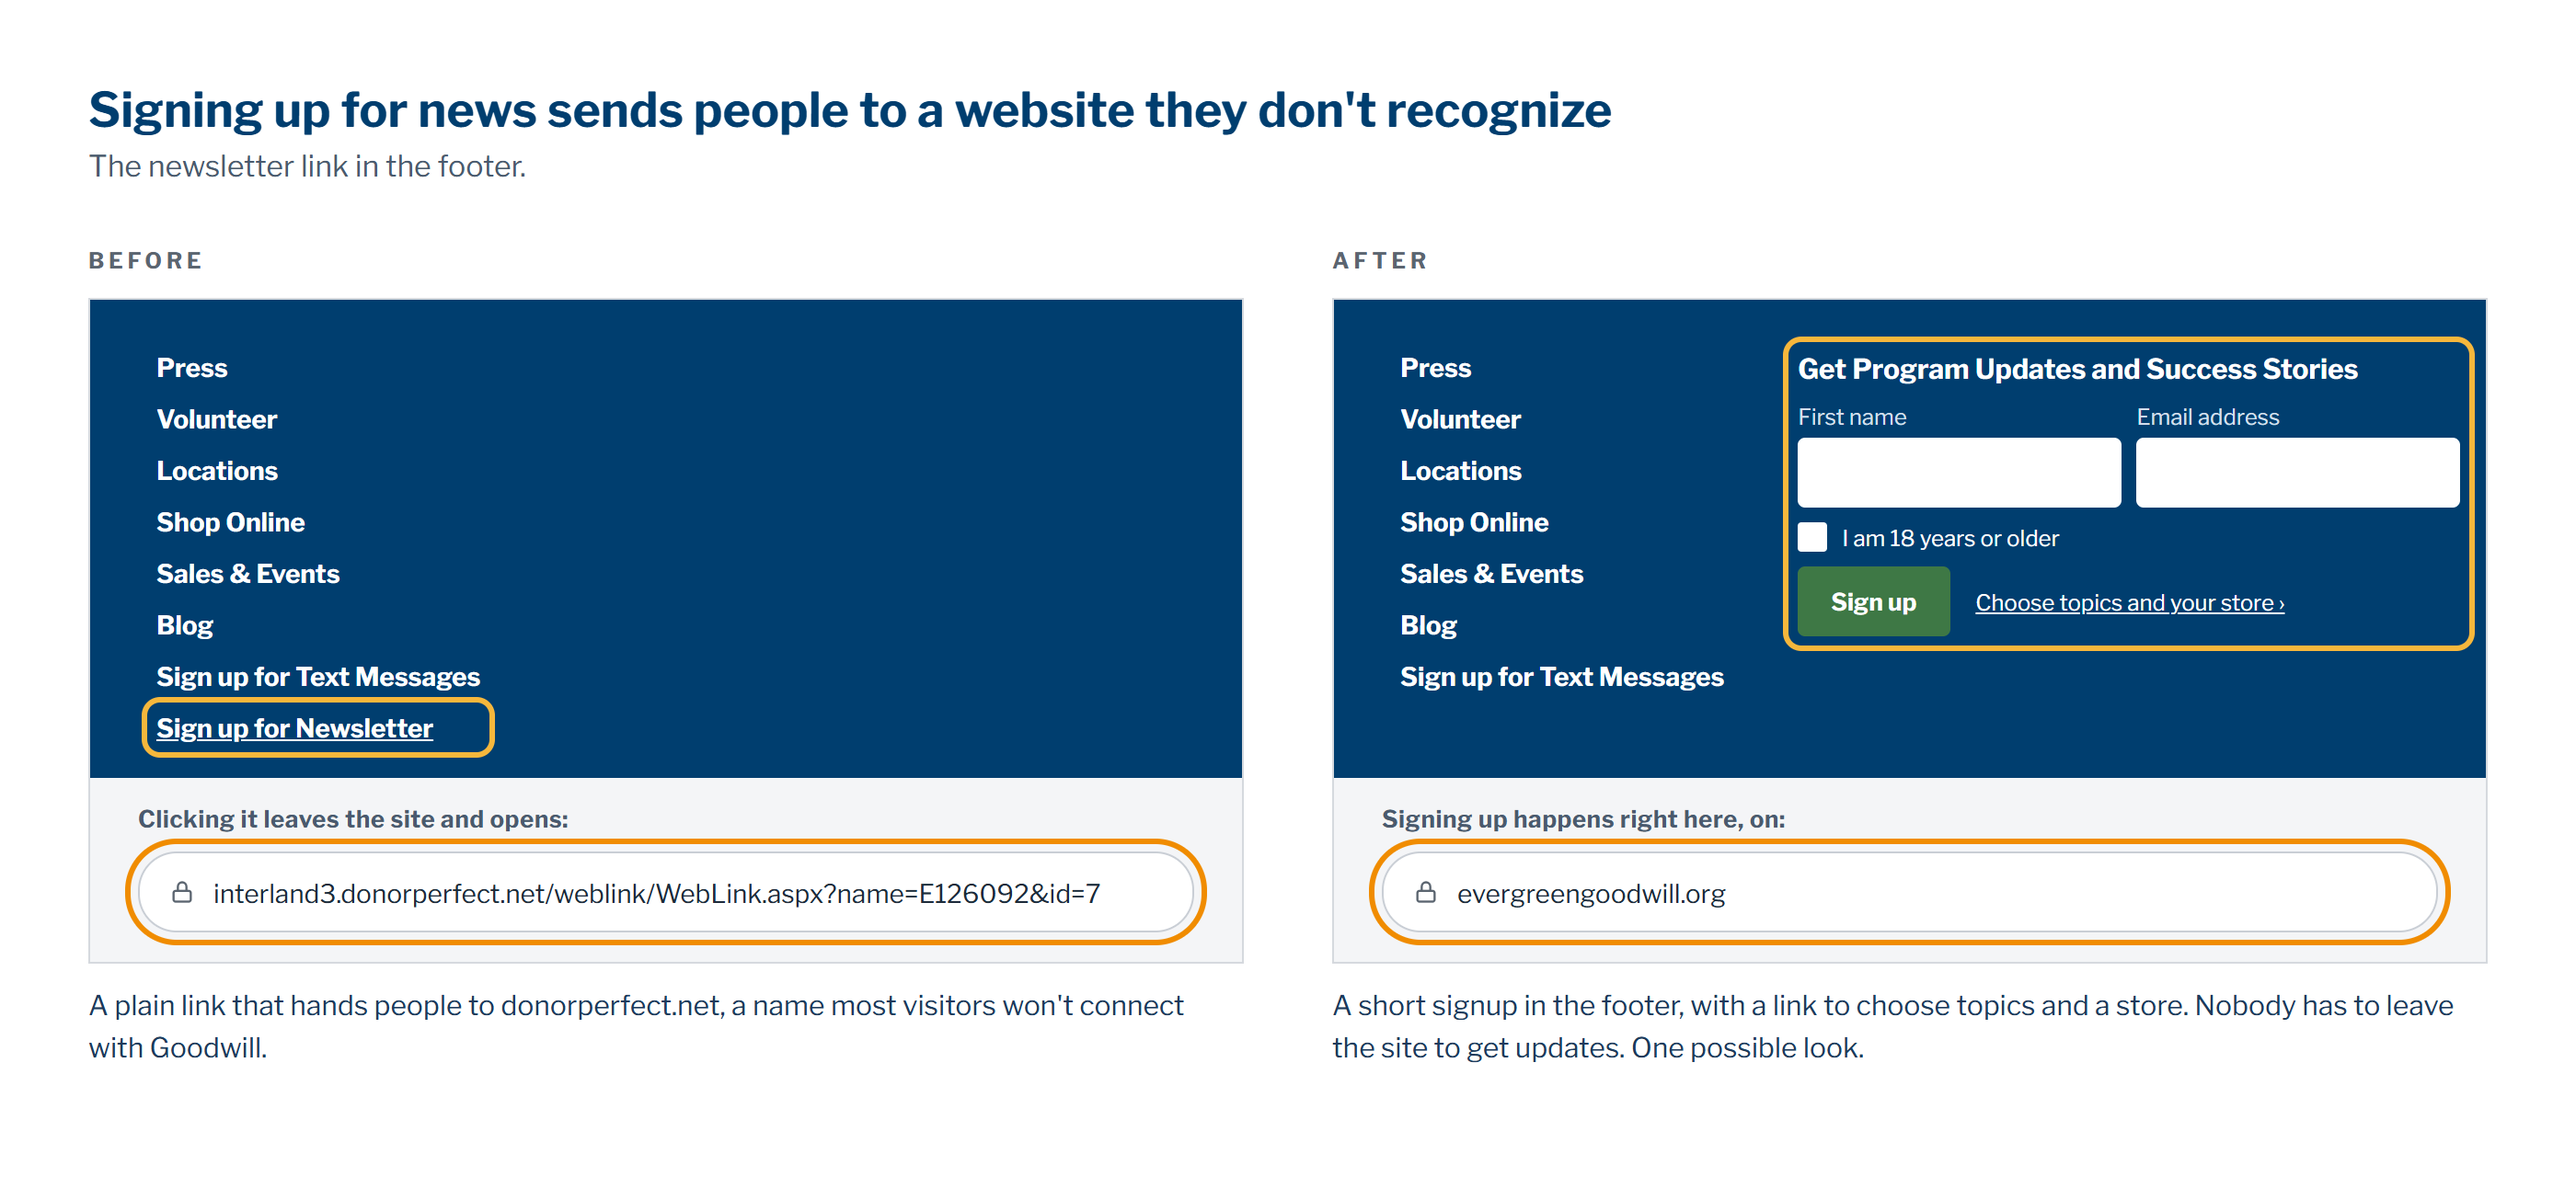
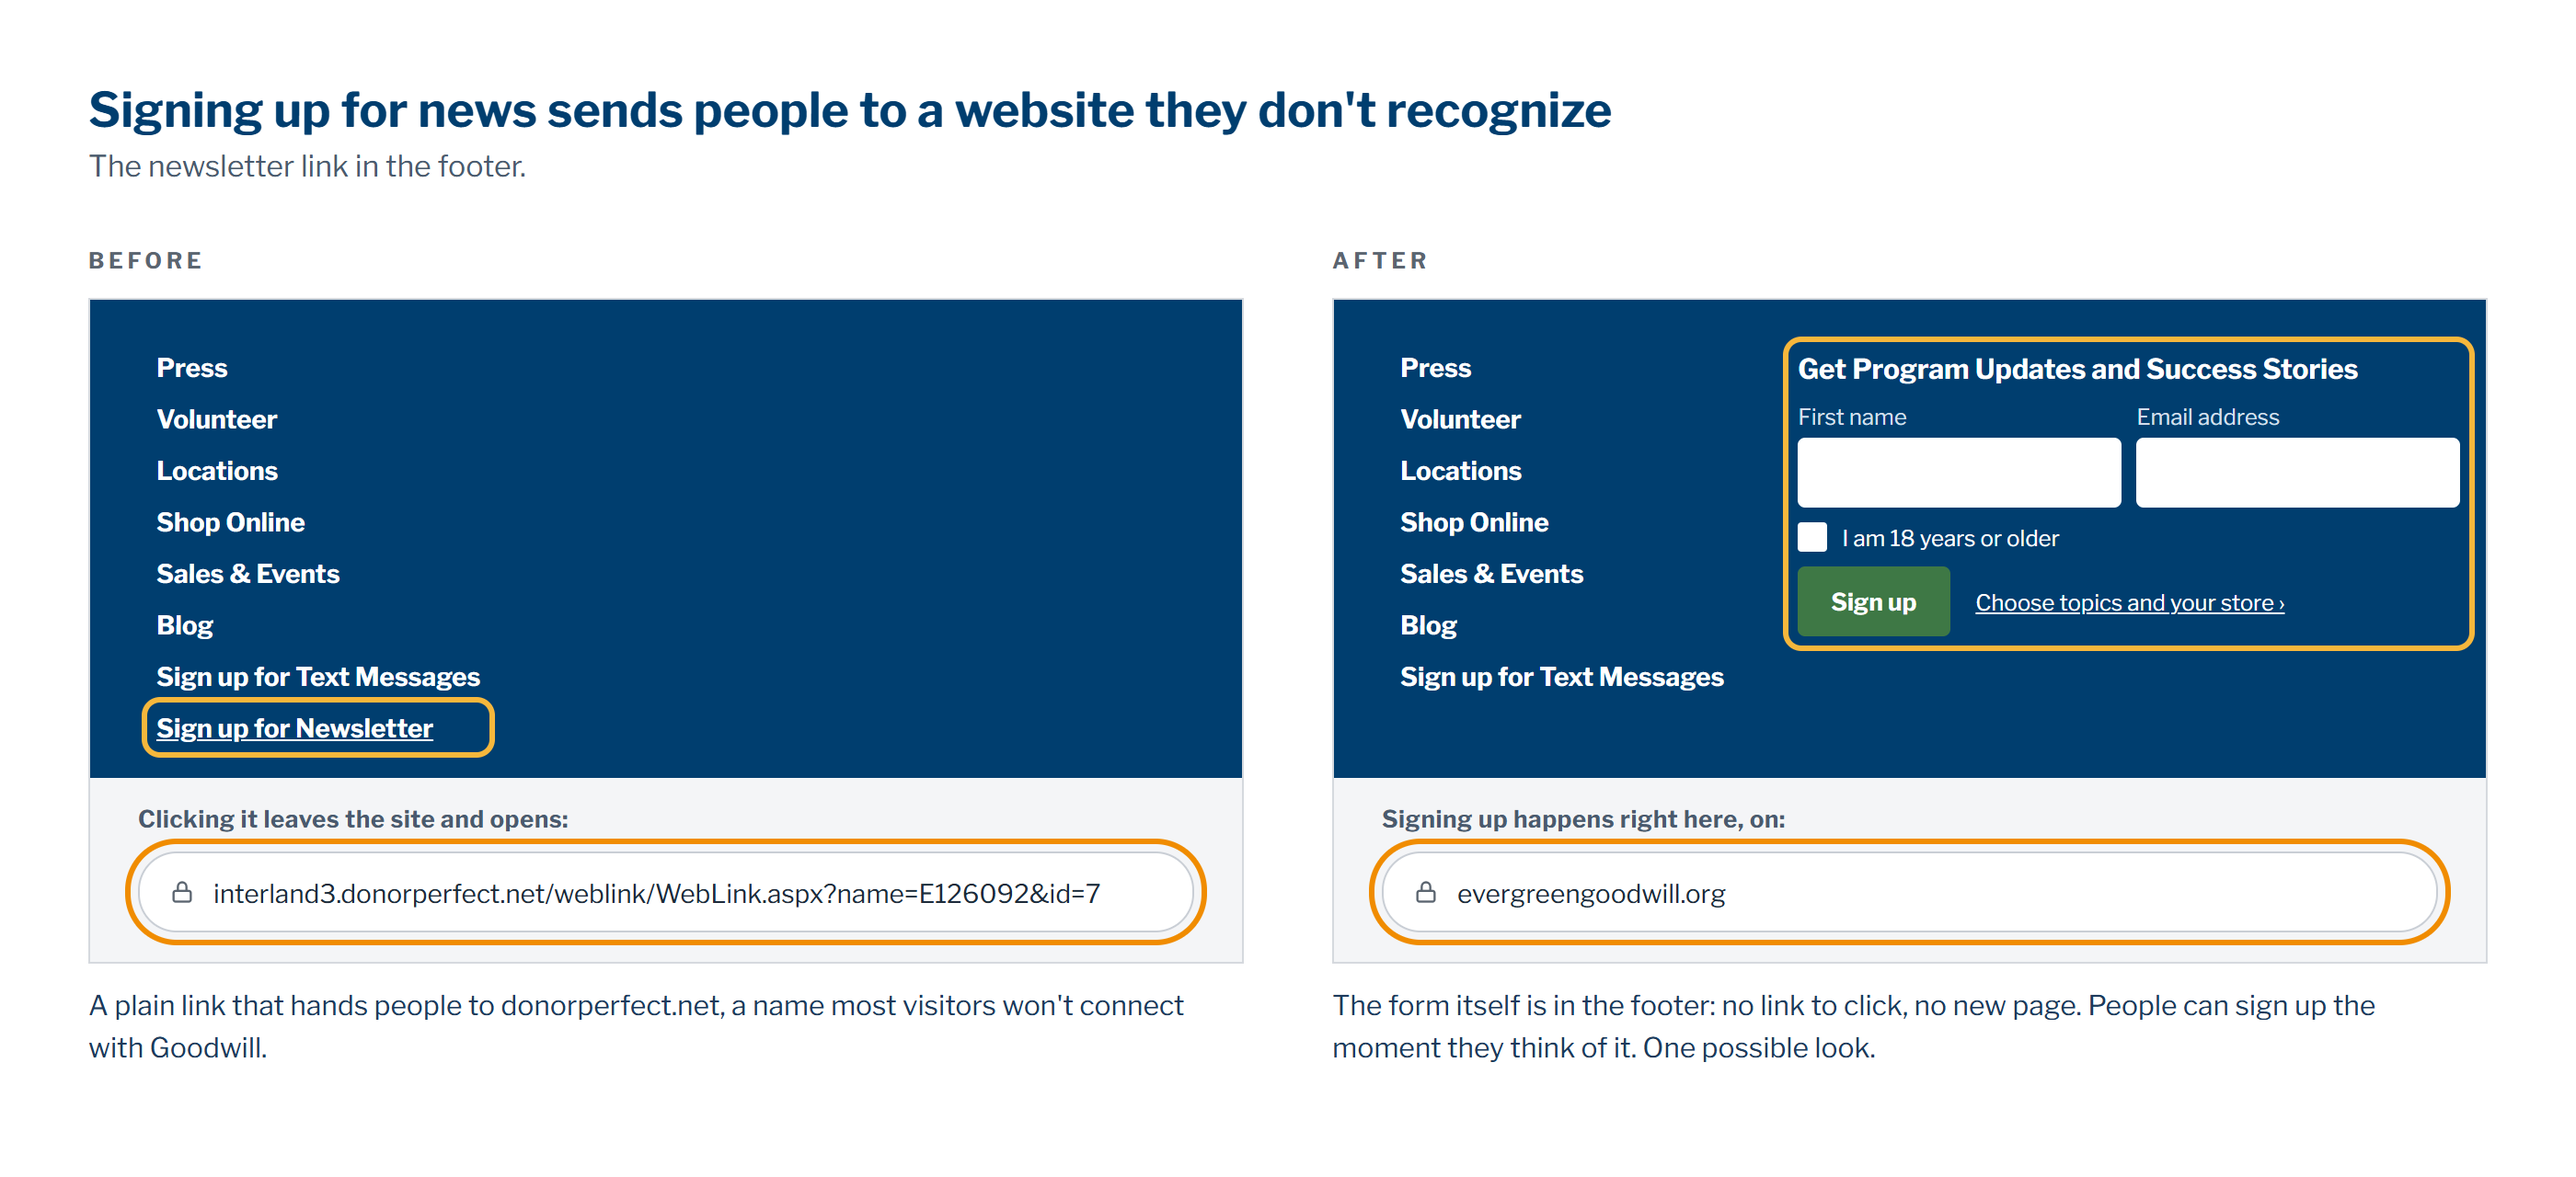
Lab: Goodwill deck, fix 02 shows the footer signup being filled in
Release: none

Changed region(s): [[0.4971, 0.8438, 0.9632, 0.9062]]

diff --git a/lab/evergreen-goodwill-deck.html b/lab/evergreen-goodwill-deck.html
@@ -253,6 +253,25 @@
   .fxm-rows span{font-family:var(--font-mono);font-size:11px;letter-spacing:.14em;text-transform:uppercase;color:var(--color-text-tertiary)}
   .fxm-rows p{margin:6px 0 0;font-size:16px;line-height:1.5;color:var(--color-text-body)}
   @media print{.fxm{display:none}}
+  /* fix 02: the signup shown working on the picture (fxm-demo.html) */
+  .fxm-imgbox{position:relative}
+  .fxm-demo{position:absolute;pointer-events:none;display:none;font-family:"Libre Franklin","Helvetica Neue",sans-serif}
+  .fxm-demo.on{display:block}
+  .fxm-demo .fd{position:absolute;box-sizing:border-box}
+  .fxm-demo .cur{width:2.1em;height:2.8em;margin:0;opacity:0;transform-origin:8% 8%;transition-property:left,top,opacity,transform;transition-timing-function:cubic-bezier(.4,0,.2,1),cubic-bezier(.4,0,.2,1),ease,ease;z-index:3}
+  .fxm-demo .cur svg{width:100%;height:100%;display:block}
+  .fxm-demo .cur.show{opacity:1}
+  .fxm-demo .cur.press{transform:scale(.86)}
+  .fxm-demo .ring{border-radius:6px;opacity:0;transition:opacity .35s, box-shadow .6s}
+  .fxm-demo .ring.on{opacity:1;box-shadow:0 0 0 .45em rgba(246,183,60,.35)}
+  .fxm-demo .field{display:flex;align-items:center;padding:0 .7em;font-size:1em;color:#1d2b3a;overflow:hidden;white-space:nowrap}
+  .fxm-demo .tick{display:flex;align-items:center;justify-content:center;background:#3e7845;color:#fff;font-size:.8em;font-weight:700;border-radius:2px;opacity:0;transition:opacity .15s}
+  .fxm-demo .tick.on{opacity:1}
+  .fxm-demo .done{display:flex;flex-direction:column;justify-content:center;gap:.4em;padding:0 1.2em;background:#003e6f;color:#fff;border:3px solid #f6b73c;border-radius:4px;opacity:0;transition:opacity .4s;z-index:2}
+  .fxm-demo .done.on{opacity:1}
+  .fxm-demo .done b{font-size:1.35em}
+  .fxm-demo .done span{font-size:1em;color:#d6e0ee}
+  .fxm-replay{margin-right:10px}
   /* slide "Say it once": typed-reason animation (static finished state without it) */
   .learn .card.faded{position:relative}
   .rbox{display:flex;align-items:center;border:1.5px solid transparent;margin-left:-10px;padding:3px 10px;min-height:1.5em;transition:border-color .3s}
@@ -474,8 +493,8 @@
 </div>
 <div class="fxm" id="fxm" hidden>
   <div class="fxm-card" role="dialog" aria-modal="true" aria-labelledby="fxm-title">
-    <div class="fxm-top"><span class="fxm-n" id="fxm-n"></span><h3 id="fxm-title"></h3><button type="button" class="fxm-x" id="fxm-x">Close</button></div>
-    <img id="fxm-img" alt="">
+    <div class="fxm-top"><span class="fxm-n" id="fxm-n"></span><h3 id="fxm-title"></h3><button type="button" class="fxm-x fxm-replay" id="fxm-replay" hidden>&#9654; Replay</button><button type="button" class="fxm-x" id="fxm-x">Close</button></div>
+    <div class="fxm-imgbox" id="fxm-imgbox"><img id="fxm-img" alt=""><div class="fxm-demo" id="fxm-demo" aria-hidden="true"></div></div>
     <div class="fxm-rows">
       <div><span>What changes</span><p id="fxm-what"></p></div>
       <div><span>Why it matters</span><p id="fxm-why"></p></div>
@@ -493,8 +512,8 @@
       why: 'It is the front door for the people the mission exists to serve, and today it does not say what is on offer.',
       measure: 'Clicks to apply or register.' },
     '2': { title: 'Newsletter on your own site', img: 'goodwill/deck/03-newsletter.png',
-      what: 'The footer link "Sign up for Newsletter", which leaves your site for a donorperfect.net address, becomes a signup on your own site, in the same footer, connected to the newsletter system you already use. Interests and store preferences are kept. The picture shows one possible look.',
-      why: 'An unfamiliar web address at the moment someone commits reads as a risk, and some people stop there.',
+      what: 'The footer link "Sign up for Newsletter", which leaves your site for a donorperfect.net address, is replaced by the signup form itself, right in the footer: no link to click, no new page. It connects to the newsletter system you already use, and "Choose topics and your store" keeps interests and store preferences. The picture shows one possible look.',
+      why: 'Every extra step loses people: a click, a new page, a web address they don\'t recognize. A form already on the page, asking only for a name and email, is the shortest path from "I\'d like updates" to signed up.',
       measure: 'Newsletter sign-ups.' },
     '3': { title: 'Shop button names the mission', img: 'goodwill/deck/02-shop-button.png',
       what: 'The "Shop Now" button in the Shop online band becomes "Shop Online: Every Purchase Supports Free Job Training".',
@@ -515,8 +534,9 @@
     document.getElementById('fxm-why').textContent = f.why;
     document.getElementById('fxm-measure').textContent = f.measure;
     last = row; m.hidden = false; document.getElementById('fxm-x').focus();
+    if (window.FXMDemo) window.FXMDemo.open(id);
   }
-  function close() { m.hidden = true; if (last) last.focus(); }
+  function close() { if (window.FXMDemo) window.FXMDemo.stop(); m.hidden = true; if (last) last.focus(); }
   document.querySelectorAll('.fix[data-fix], .mv .fx [data-fix]').forEach(function (row) {
     row.setAttribute('tabindex', '0'); row.setAttribute('role', 'button');
     row.addEventListener('click', function (e) { e.stopPropagation(); open(row.dataset.fix, row); });
@@ -528,6 +548,67 @@
     e.stopImmediatePropagation();
     if (e.key === 'Escape') { e.preventDefault(); close(); }
   }, true);
+})();
+</script>
+<script>
+// Fix 02 panel: a mouse shows the proposed footer signup working on the "after" picture. It fills in a name and email, ticks the 18+ box and presses Sign up. Targets are measured from the mockup source
+// (nl-measure.js), as % of the image, so they land on the picture at any size. Plays when panel 02 opens; Replay
+// runs it again; closing the panel stops it. Reduced motion: the picture stays still.
+(function () {
+  var R = {"size":[1400,640],"form":{"x":69.8,"y":29.84,"w":25.71,"h":24.26},"first":{"x":69.8,"y":37.23,"w":12.57,"h":5.94},"email":{"x":82.94,"y":37.23,"w":12.57,"h":5.94},"check":{"x":69.8,"y":44.41,"w":1.14,"h":2.5},"btn":{"x":69.8,"y":48.16,"w":5.89,"h":5.94}};
+  var box = document.getElementById('fxm-imgbox'), img = document.getElementById('fxm-img'),
+      layer = document.getElementById('fxm-demo'), replay = document.getElementById('fxm-replay');
+  var still = window.matchMedia && window.matchMedia('(prefers-reduced-motion: reduce)').matches;
+  var timers = [], active = false;
+  function at(ms, fn) { timers.push(setTimeout(fn, ms)); }
+  function el(cls, r, html) {
+    var d = document.createElement('div'); d.className = 'fd ' + cls;
+    if (r) { d.style.left = r.x + '%'; d.style.top = r.y + '%'; d.style.width = r.w + '%'; d.style.height = r.h + '%'; }
+    if (html) d.innerHTML = html; layer.appendChild(d); return d;
+  }
+  // the picture is letterboxed (object-fit: contain), so the layer is fitted to the image's own box
+  function fit() {
+    var bw = img.clientWidth, bh = img.clientHeight, nr = img.naturalWidth / img.naturalHeight || 1, w = bw, h = bw / nr;
+    if (h > bh) { h = bh; w = bh * nr; }
+    layer.style.left = (img.offsetLeft + (bw - w) / 2) + 'px'; layer.style.top = (img.offsetTop + (bh - h) / 2) + 'px';
+    layer.style.width = w + 'px'; layer.style.height = h + 'px';
+    layer.style.fontSize = (h * 0.024) + 'px';
+  }
+  function stop() { timers.forEach(clearTimeout); timers = []; layer.innerHTML = ''; layer.classList.remove('on'); active = false; }
+  function centre(r, dx, dy) { return { x: r.x + r.w * (dx == null ? 0.5 : dx), y: r.y + r.h * (dy == null ? 0.6 : dy) }; }
+  function play() {
+    stop(); if (still) return; active = true; fit(); layer.classList.add('on');
+    var cur = el('cur', null, '<svg viewBox="0 0 30 40"><path d="M3 3 L3 33 L11 25 L16.5 37 L21.5 34.8 L16.2 23.2 L27 23.2 Z" fill="#111" stroke="#fff" stroke-width="2.4" stroke-linejoin="round"/></svg>');
+    var ringForm = el('ring glow', R.form);
+    var first = el('field', R.first), email = el('field', R.email), tick = el('tick', R.check, '&#10003;');
+    var done = el('done', R.form, '<b>Thanks, Alex!</b><span>You\'re signed up for program updates.</span>');
+    function move(p, ms) { cur.style.transitionDuration = (ms || 600) + 'ms'; cur.style.left = p.x + '%'; cur.style.top = p.y + '%'; }
+    function click() { cur.classList.add('press'); at(140, function () { cur.classList.remove('press'); }); }
+    function type(field, text, per) { for (var i = 1; i <= text.length; i++) (function (i) { at(per * i, function () { field.textContent = text.slice(0, i); }); })(i); }
+    cur.style.transitionDuration = '0ms'; cur.style.left = '62%'; cur.style.top = '92%';
+    at(50, function () { cur.classList.add('show'); });
+    at(300, function () { ringForm.classList.add('on'); });
+    at(900, function () { move(centre(R.first, 0.3), 750); });
+    at(1750, function () { click(); type(first, 'Alex', 110); });
+    at(2400, function () { move(centre(R.email, 0.3), 550); });
+    at(3050, function () { click(); type(email, 'alex@example.org', 55); });
+    at(4100, function () { move(centre(R.check, 0.5, 0.55), 550); });
+    at(4700, function () { click(); tick.classList.add('on'); });
+    at(5000, function () { move(centre(R.btn, 0.55), 500); });
+    at(5600, function () { click(); });
+    at(5800, function () { ringForm.classList.remove('on'); done.classList.add('on'); });
+    at(7000, function () { cur.classList.remove('show'); });
+  }
+  window.FXMDemo = {
+    open: function (id) {
+      stop(); replay.hidden = !(id === '2' && !still);
+      if (id !== '2') return;
+      if (img.complete && img.naturalWidth) play(); else img.addEventListener('load', function once() { img.removeEventListener('load', once); if (!document.getElementById('fxm').hidden) play(); });
+    },
+    stop: function () { stop(); replay.hidden = true; }
+  };
+  replay.addEventListener('click', function (e) { e.stopPropagation(); play(); });
+  window.addEventListener('resize', function () { if (active) fit(); });
 })();
 </script>
 <svg class="ptr" id="s8ptr" viewBox="0 0 24 24" aria-hidden="true"><path d="M4 2l15 11-6.6 1.1 3.9 7.4-3 1.5-3.9-7.5L4 20z" fill="#111" stroke="#fff" stroke-width="1.4" stroke-linejoin="round"/></svg>
